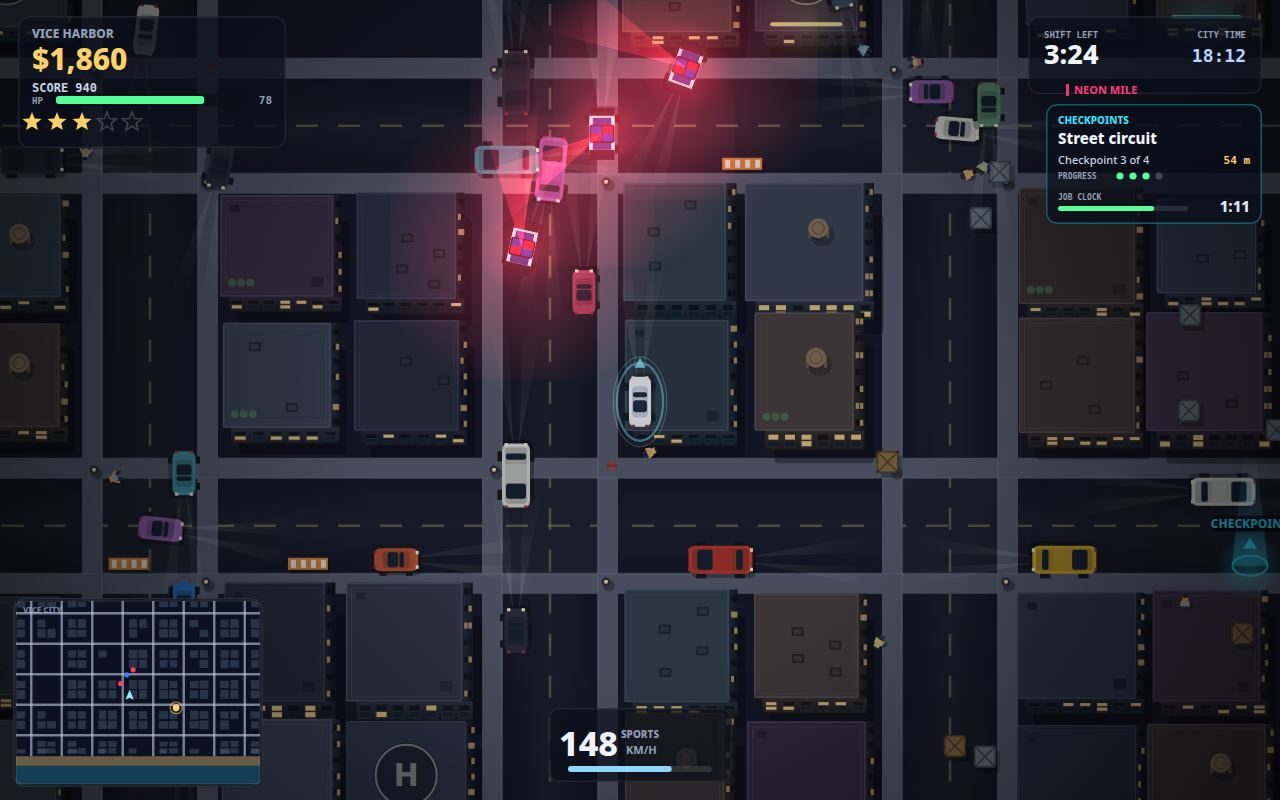
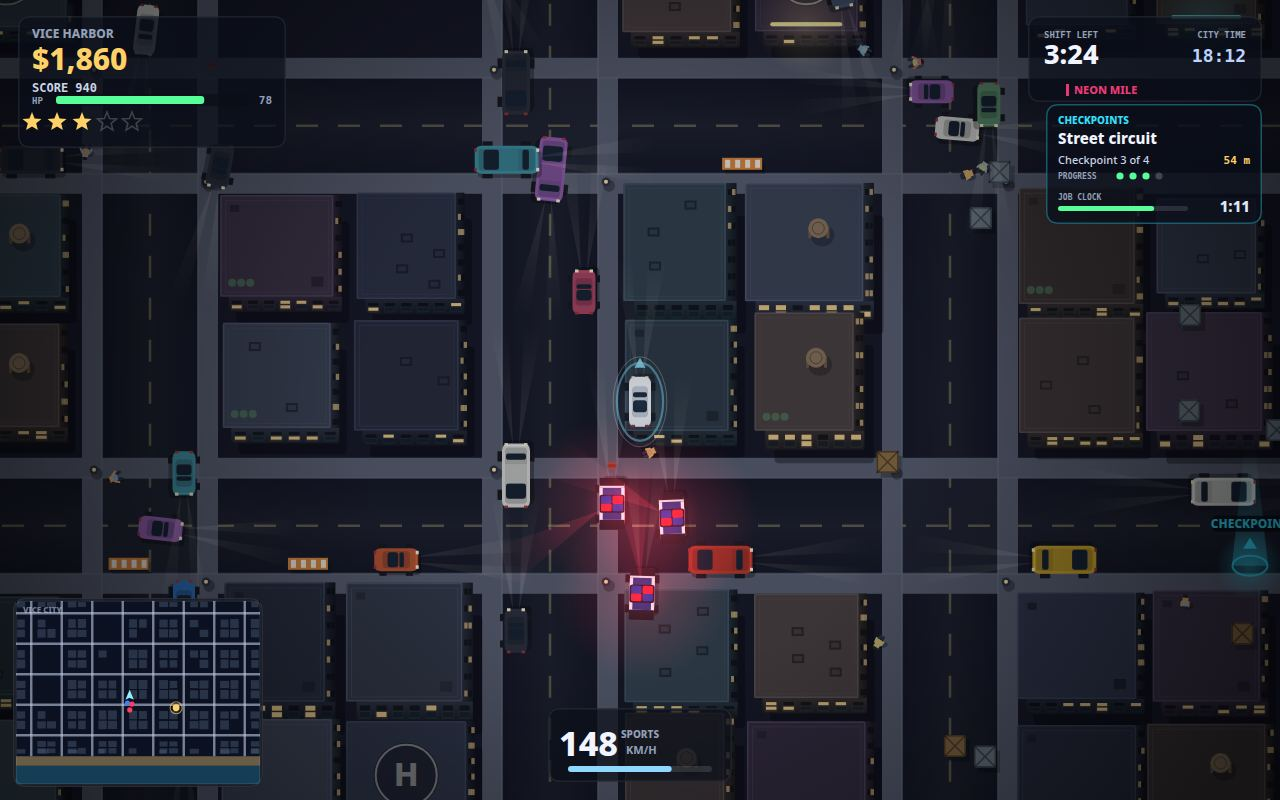
Vice Harbor: open-world city crime game

Changed region(s): [[0.3125, 0.0, 0.625, 0.4688], [0.4062, 0.5312, 0.5625, 0.8125], [0.0938, 0.875, 0.125, 0.9062]]

diff --git a/game/src/render.js b/game/src/render.js
@@ -827,32 +827,34 @@ export function createRenderer(canvas) {
     ctx.fill();
   }
 
-  /** The strobe: a big pulsing halo plus a sweeping beacon cone, drawn in world space. */
+  /** The strobe: a tight pulsing halo plus a sweeping beacon cone, drawn in world space. */
   function drawPoliceGlow(car, t) {
     const phase = Math.floor(t * 9) % 2 === 0;
     const color = car.siren ? (phase ? '#ff2b3d' : '#2f6bff') : '#8892a6';
     const pulse = car.siren ? 0.75 + Math.sin(t * 18) * 0.25 : 0.3;
     ctx.globalCompositeOperation = 'lighter';
-    ctx.fillStyle = radial(car.x, car.y, 150, [
-      [0, rgba(color, 0.78 * pulse)],
-      [0.3, rgba(color, 0.34 * pulse)],
+    // Kept small and centred: a wide wash turns the white-and-blue livery underneath it into
+    // an unreadable blob, which is the one thing a chase frame cannot afford.
+    ctx.fillStyle = radial(car.x, car.y, 86, [
+      [0, rgba(color, 0.46 * pulse)],
+      [0.34, rgba(color, 0.2 * pulse)],
       [1, rgba(color, 0)],
     ]);
-    ctx.fillRect(car.x - 132, car.y - 132, 264, 264);
+    ctx.fillRect(car.x - 86, car.y - 86, 172, 172);
     // A sweeping beam, the thing the eye catches first in a chase.
     if (car.siren) {
       const sweep = t * 3.1 + car.id;
       ctx.save();
       ctx.translate(car.x, car.y);
       ctx.rotate(sweep);
-      const beam = ctx.createLinearGradient(0, 0, 150, 0);
-      beam.addColorStop(0, rgba(color, 0.5 * pulse));
+      const beam = ctx.createLinearGradient(0, 0, 132, 0);
+      beam.addColorStop(0, rgba(color, 0.26 * pulse));
       beam.addColorStop(1, rgba(color, 0));
       ctx.fillStyle = beam;
       ctx.beginPath();
-      ctx.moveTo(0, 0);
-      ctx.lineTo(150, -34);
-      ctx.lineTo(150, 34);
+      ctx.moveTo(14, 0);
+      ctx.lineTo(132, -22);
+      ctx.lineTo(132, 22);
       ctx.closePath();
       ctx.fill();
       ctx.restore();
@@ -1254,7 +1256,7 @@ export function createRenderer(canvas) {
 
     // Top-right: the shift clock and district. Countdown on the left, city clock right.
     const clockW = 234;
-    panel(VIEW_W - clockW - 18, 16, clockW, 78, 0.72, 'rgba(255,255,255,0.08)');
+    panel(VIEW_W - clockW - 18, 16, clockW, 86, 0.72, 'rgba(255,255,255,0.08)');
     const shiftLow = state.shift < 45;
     text('SHIFT LEFT', VIEW_W - clockW - 2, 38, 9, PALETTE.muted, 'left', 700, FONT_MONO);
     text(formatShift(state.shift), VIEW_W - clockW - 2, 64, 27, shiftLow && Math.sin(state.time * 6) > 0 ? '#ff8a94' : '#f2f5ff', 'left', 800, FONT_DISPLAY);

diff --git a/game/src/shots.js b/game/src/shots.js
@@ -147,12 +147,13 @@ function stageChase(world) {
     district: 'Neon Mile',
   };
   state.jobWait = 999;
-  // Three cruisers boxed in ahead and to the sides, where the frame can see them.
+  // Three cruisers close behind on the same avenue, nose up at the player's bumper: the
+  // frame should read as a pursuit from the first glance, not as traffic in the distance.
   state.police.length = 0;
   const spots = [
-    { x: 1452, y: 968, angle: -Math.PI / 2 },
-    { x: 1536, y: 902, angle: Math.PI / 2 + 0.35 },
-    { x: 1372, y: 1082, angle: -Math.PI / 2 + 0.22 },
+    { x: 1462, y: 1338, angle: -Math.PI / 2 },
+    { x: 1522, y: 1352, angle: -Math.PI / 2 - 0.04 },
+    { x: 1492, y: 1428, angle: -Math.PI / 2 + 0.03 },
   ];
   for (let i = 0; i < spots.length; i += 1) {
     const unit = world.spawnPoliceUnit();

diff --git a/README.md b/README.md
@@ -1,93 +1,9 @@
 # Vice Harbor
 
-A top-down open-world city crime game in plain canvas 2D. No libraries, no build step, no network:
-`game/index.html` loads `game/src/main.js` as an ES module and everything else is static files.
+Vice Harbor is an open-world city crime game built for the make.fun Make GTA 6 bounty. One five-minute shift in a neon coastal city you can roam on foot or by car: take phone jobs across four districts, run deliveries, checkpoint circuits and cash grabs for pay, and build a wanted level until the police are on you — then shake them by breaking line of sight, swapping cars while unseen, or outdriving them. It is one static page with no build step: `game/index.html` loads `game/src/main.js` as a plain ES module, no libraries, no bundler, no network requests, and it plays offline straight from the folder.
 
-You get one five-minute shift in a city that does not care whether you finish it. Take phone jobs,
-steal what you need to take them, and keep the cash — the police will have opinions.
+[![Make GTA 6 bounty](https://make.fun/badge/gta6-01.svg)](https://make.fun/c/gta6-01)
+[![Bounty rank](https://make.fun/badge/gta6-01/Zhoya0077/vice-harbor/rank.svg)](https://make.fun/c/gta6-01)
+[![Bounty reward](https://make.fun/badge/gta6-01/Zhoya0077/vice-harbor/reward.svg)](https://make.fun/c/gta6-01)
 
-## Play it
-
-```
-node serve.ts                 # serves game/ on http://localhost:8080
-```
-
-Open <http://localhost:8080>. Sound needs a click or a key press first; `M` mutes it.
-
-## Controls
-
-| Key | Action |
-| --- | --- |
-| `WASD` / arrows | walk, and drive (throttle + steering) |
-| `Shift` | sprint on foot |
-| `E` | enter or leave a car |
-| `Space` | handbrake — hold it through a corner to drift |
-| `P` / `Esc` | pause |
-| `R` | restart the shift |
-| `M` | mute |
-
-## What is in it
-
-- A 3200×2400 city: an eight-by-five road grid with lane markings, kerbs and crossings, blocks
-  filled with extruded buildings that cast shadows and light their windows after dark, a beach and
-  open water along the south edge, palms, crates, barriers, lamps and a pier.
-- Four named districts that announce themselves when you cross into them: Palm Heights, Neon Mile,
-  Old Market, Harbor Docks.
-- Cars you can drive: compact, sports and truck archetypes with their own top speed, acceleration
-  and handling. Parked cars, traffic that follows the grid and brakes for obstacles, and a real
-  handbrake drift. Cars take damage, smoke, and end up as wrecks.
-- A five-star wanted system. Grand theft, ramming cruisers, wrecking cars, hitting pedestrians and
-  pulling jobs all raise it. Police spawn at the map edges, chase, ram, and set roadblocks at four
-  stars. They lose you when buildings break line of sight; the meter drains, faster if you swap
-  cars while unseen. Get cornered on foot and the BUSTED meter fills; lose all your health and the
-  shift ends WASTED.
-- Three job types on a phone feed: a timed delivery across town, a checkpoint circuit, and a
-  scattered cash-drop collection. Each pays on completion, and each one bumps your wanted level.
-- A day/night arc: the shift starts at 17:40, runs through sunset into full neon night, with lit
-  windows, sodium lamp pools, headlight cones and strobing police lights.
-- Synthesised audio only: a WebAudio engine whose pitch tracks your speed, a two-tone siren that
-  gets louder as a unit closes in, and stingers for pickups, crashes, completed jobs and the bust.
-
-## Screenshot scenes
-
-The game reads `?shot=start|play|chase|end&seed=N`. Each one builds the world from the seed, plays
-the real rules forward under a fixed autopilot, and freezes with `window.__shotReady` set. The same
-seed always renders the same frame, which is what `shots.json` and `tools/shots.mjs` rely on.
-
-## Build the entry
-
-```
-mkdir -p out && MAKEFUN_OUTPUT_DIR=out node main.ts
-```
-
-That copies `game/` and `screenshots/` into the output directory and writes `dossier.json` with the
-vendored `buildDossier`, under the same caps the scorer uses.
-
-## Retake the screenshots
-
-```
-node tools/shots.mjs
-```
-
-Serves the game on port 8901, drives each scene with playwright-core against the Chromium in
-`~/workspace/makefun/shot-tools`, writes the four JPEGs into `screenshots/`, and fails the run on
-any page error.
-
-## Layout
-
-```
-game/index.html        the page: canvas + module script
-game/src/main.js       boot, the loop, screens, audio wiring
-game/src/config.js     every tuning number and colour
-game/src/city.js       the seeded city generator and its collision grid
-game/src/car.js        car physics, damage and traffic AI
-game/src/world.js      the simulation: player, police, jobs, shift
-game/src/render.js     all drawing, HUD and screens
-game/src/shots.js      the frozen screenshot scenes
-game/src/audio.js      the WebAudio synth
-game/src/input.js      keyboard and pointer state
-game/src/util.js       geometry and maths
-main.ts                stages the entry and writes dossier.json
-serve.ts               a static server for game/
-tools/shots.mjs        captures shots.json with playwright-core
-```
+Part of the [Make GTA 6](https://make.fun/c/gta6-01) bounty. To play locally, run `node serve.ts` and open http://localhost:8080.
